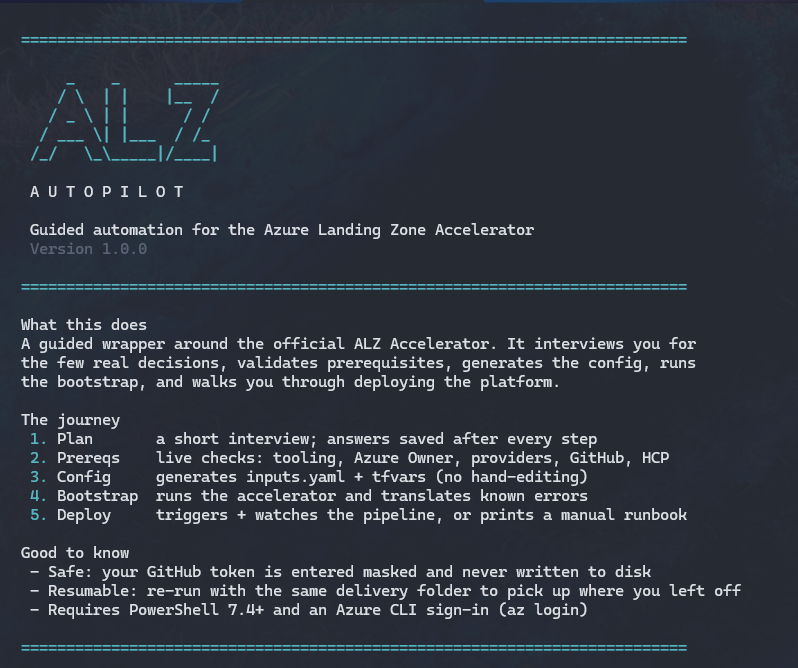
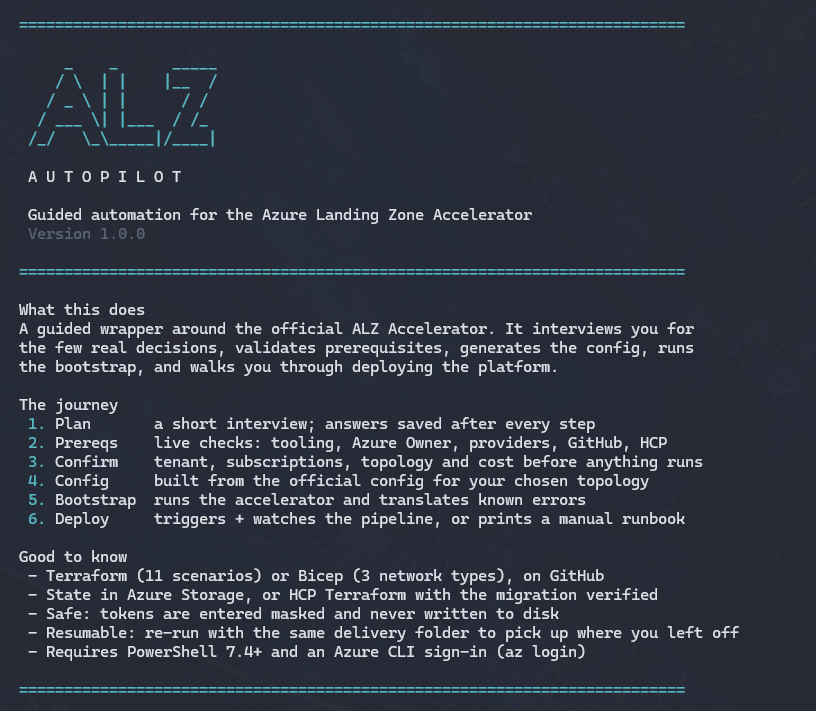
Update ALZ Autopilot

diff --git a/README.md b/README.md
@@ -1,17 +1,7 @@
 <!-- markdownlint-disable -->
-```
-    _     _      _____ 
-   / \   | |    |__  / 
-  / _ \  | |      / /  
- / ___ \ | |___  / /_  
-/_/   \_\|_____|/____| 
-
-    _     _   _  _____   ___   ____   ___  _       ___   _____ 
-   / \   | | | ||_   _| / _ \ |  _ \ |_ _|| |     / _ \ |_   _|
-  / _ \  | | | |  | |  | | | || |_) | | | | |    | | | |  | |  
- / ___ \ | |_| |  | |  | |_| ||  __/  | | | |___ | |_| |  | |  
-/_/   \_\ \___/   |_|   \___/ |_|    |___||_____| \___/   |_|  
-```
+<p align="center">
+  <img src="ALZAutoPilot.png" alt="ALZ Autopilot" width="760">
+</p>
 
 # ALZ Autopilot
 

diff --git a/HOW-TO-USE.md b/HOW-TO-USE.md
@@ -1,13 +1,7 @@
 <!-- markdownlint-disable -->
-```
-       _    _      _____
-      / \  | |    |__  /
-     / _ \ | |      / /
-    / ___ \| |___  / /_
-   /_/   \_\_____|/____|
-
-   A U T O P I L O T
-```
+<p align="center">
+  <img src="ALZAutoPilot.png" alt="ALZ Autopilot" width="760">
+</p>
 
 # ALZ Autopilot: How to Use
 
